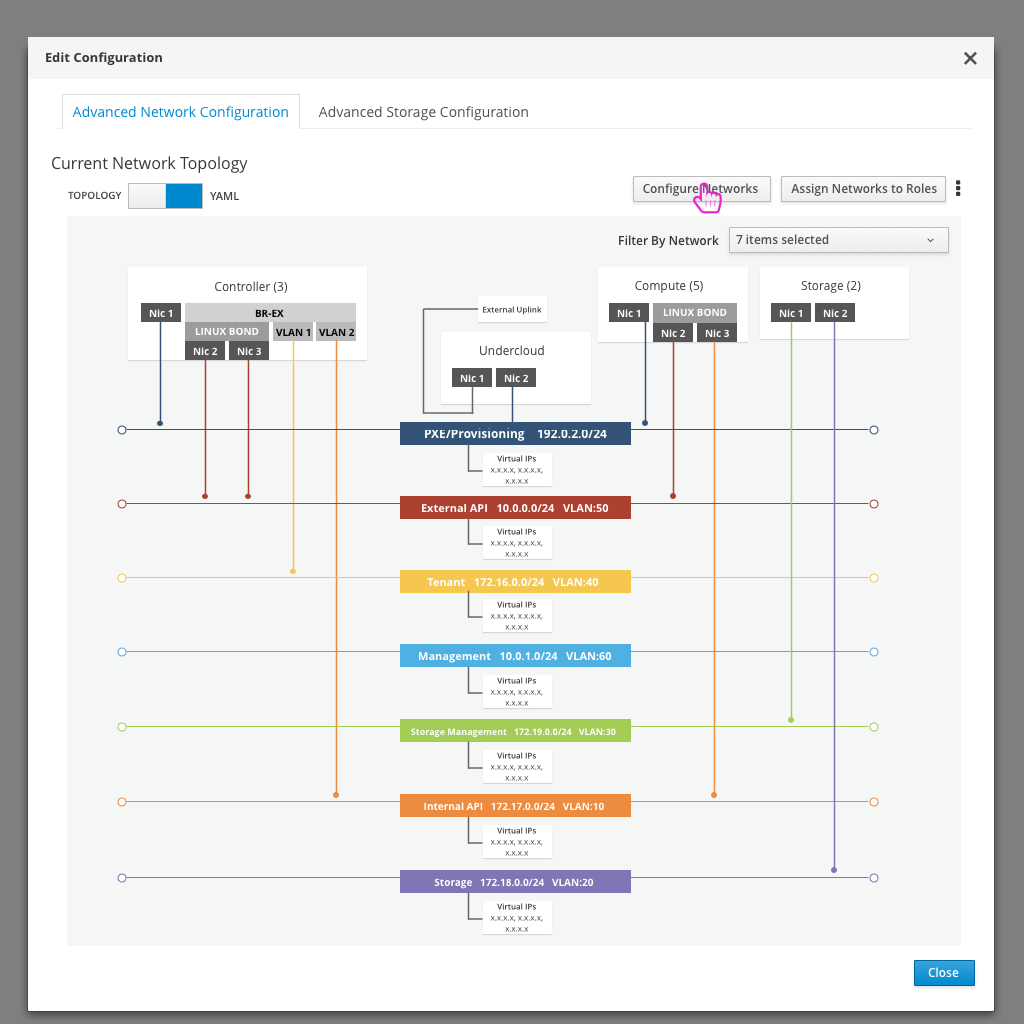
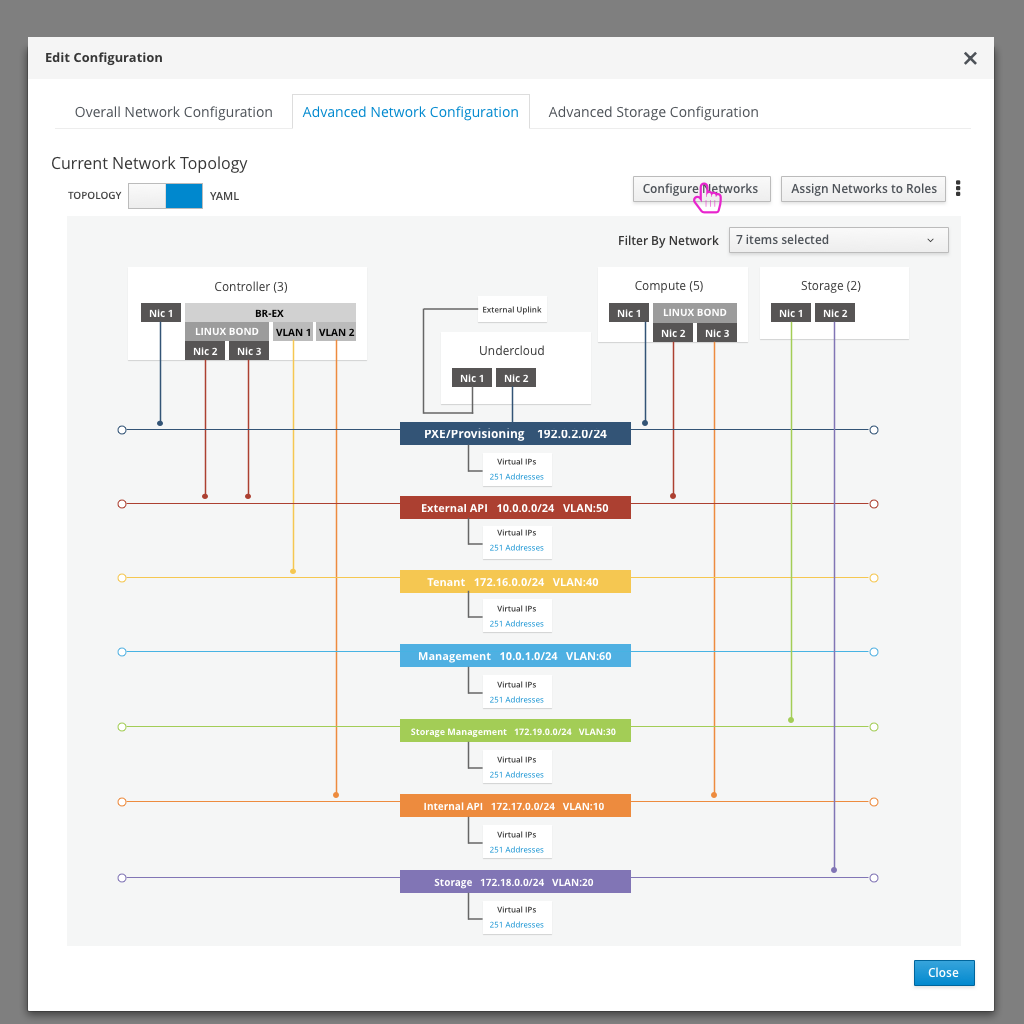
Updating Network documentation for the popular use cases

diff --git a/tripleo-ui/5-popular-use-cases/3.NetworkConfiguration.md b/tripleo-ui/5-popular-use-cases/3.NetworkConfiguration.md
@@ -28,6 +28,11 @@ The second place to edit Network Configuration is per Role (by clicking the sett
 ![editconfiguration](img/Network-Network-Deployment_Plan.png)
 - An advanced user (or preparation expert) might use the UI to setup advanced Networking configuration. To access the configuration, they can click on the "Edit Configuration" button on the 4th step of the deployment workflow.
 
+### High Level Network configuration
+![networkconfiguration](img/Networking-Network-Edit_Configuration_Modal_Overall.png)
+- First, the user has access to high level network configuration options. This includes enable or disabled things like network isolation, choosing the NIC layout, and enabling or disabling any networking plugins.
+- Any plugins that are enabled are added to the accordion below along with any parameters that can be configured.
+
 ### Network Topology
 ![networktopology](img/Networking-Network-Edit_Configuration_Modal.png)
 - Once the user has clicked on the Edit Configuration button, they will see the current Network Topology as a base view. They will have a number of actions they could perform from here that are in buttons at the top of the modal.
@@ -53,13 +58,6 @@ The second place to edit Network Configuration is per Role (by clicking the sett
 - Clicking on the "Configure NICs" button gives the user the option to define a network profile that will be used for the nodes assigned to each role. The role can be selected at the top of the modal.
 - The user will be able to create and configure NICs, bridges, bonds, VLANs, and routes.
 - After making any updates, clicking save will return the user back to the network topology view.
-
-### Configure Plugins
-- Another option in the kebab is to "Configure Plugins".
-![networktopology3](img/Networking-Network-Edit_Configuration_Modal3.png)
-![configureplugins](img/Networking-Network-Configure_Plugins.png)
-- The plugin dropdown allows the user to enable or disable plugins.
-- Any plugins that are enabled are added to the accordion below along with any parameters that can be configured.
 
 ### Toggle YAML view
 - One option that the user has is to toggle the view from the visual topology to the YAML view.
